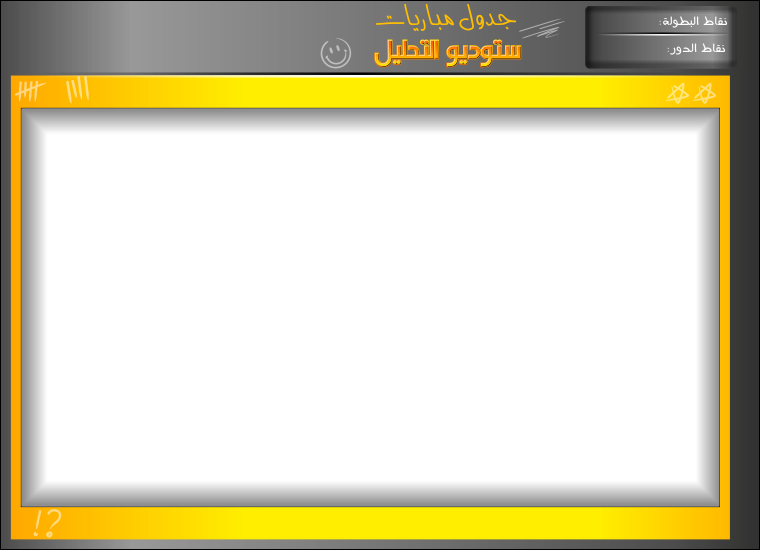
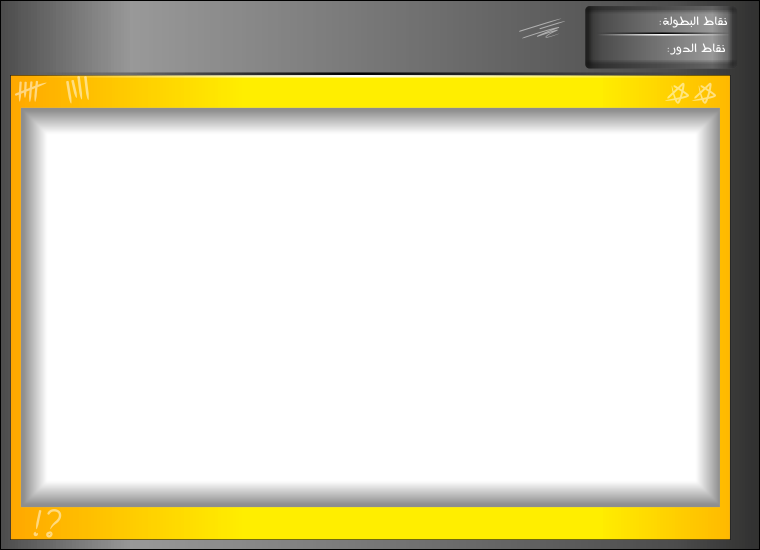
better display

diff --git a/studio/public/stylesheets/dashboard.css b/studio/public/stylesheets/dashboard.css
@@ -196,7 +196,7 @@
 #content #guide{
 	position: absolute;
 	visibility: hidden;
-	left:90px;
+	left:260px;
 	top:1px;
 	width:230px;
 	height:72px;
@@ -210,11 +210,11 @@
 #content #studio{
 	position: absolute;
 	visibility: visible;
-	left:140px;
-	top:8px;
-	width:125px;
-	height:57px;
-	background:  url('../images/background/studio_button.png')  no-repeat;	
+	left:237px;
+	top:4px;
+	width:290px;
+	height:65px;
+	background:  url('../images/background/header.png')  no-repeat;	
 	cursor : pointer;
 }
 
